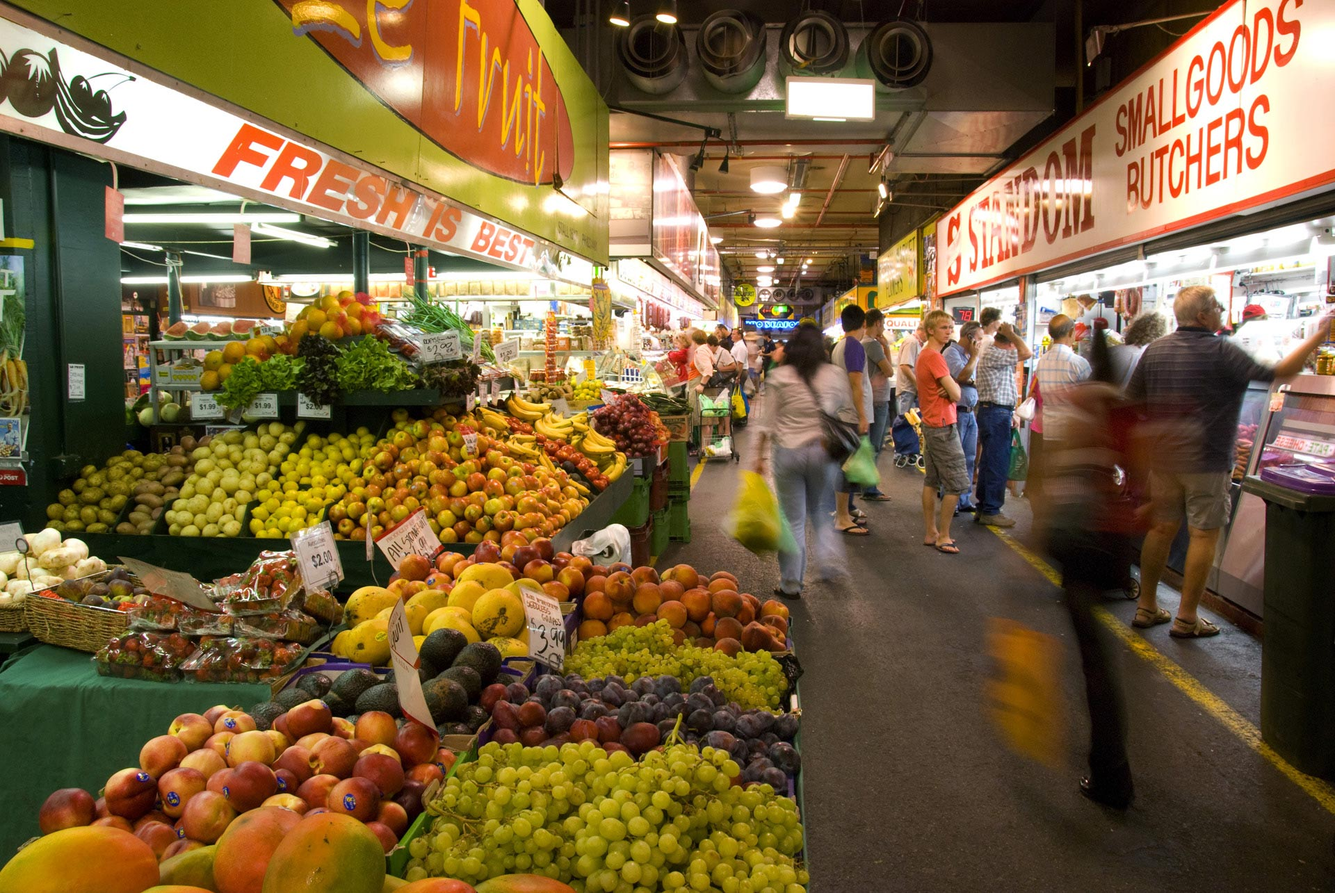
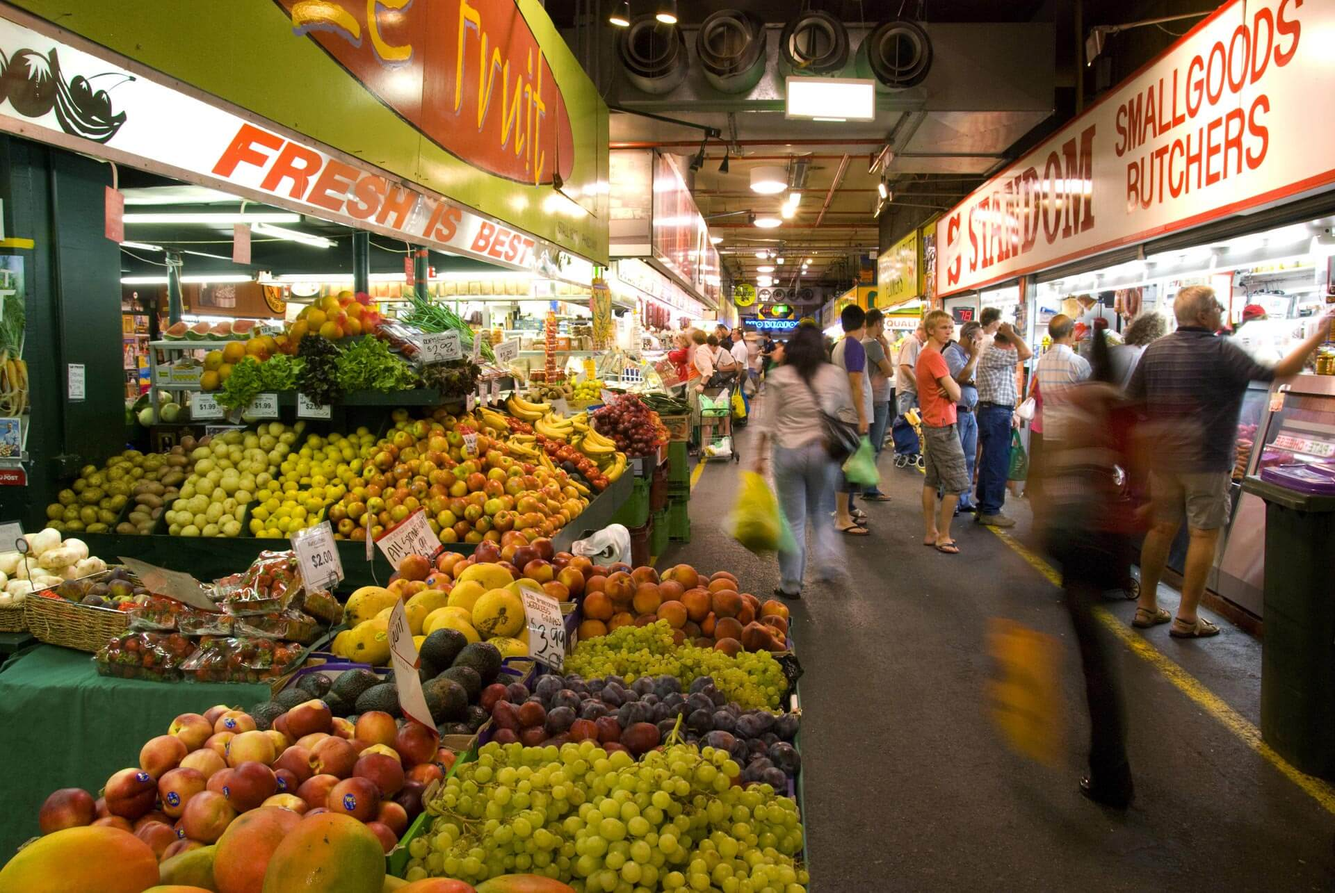
replace images with compressed versions

Changed region(s): [[0.5625, 0.3424, 0.5938, 0.3735]]

diff --git a/README.md b/README.md
@@ -2,10 +2,12 @@
 
 An eCommerce store for Viking thunder Gods that like to buy "Antique Wooden Pizzas".
 
+![welcome screenshot](public/welcome.jpg)
+
 Mimirs Market is an eCommerce store that lets users browse products by searching or category, view their shopping cart, view past orders, and view analytics of all orders. When you're ready to checkout, you can use [Stripe's API](https://stripe.com/docs/api) to make a fake purchase.
 
 Mimir's Market runs in Node.js, using Express.js for the server, Handlebars templates for the views, and Mongoose and Sequelize for interacting with MongoDB and Postgres databases respectively.
 
-To run this project locally, make sure you have both MongoDB and Postgres installed and running on your local machine.You'll also need two API keys from stripe, a secret one and a test one. Save them as STRIPE_PK and STRIPE_SK in your environment variables. You'll need to modify the configuration files in the Config folder to give the project access to your postgres database.
+To run this project locally, you'll need to have Node.js installed. You'll also need to make sure you have both MongoDB and Postgres installed and running on your local machine.You'll also need two API keys from stripe, a secret one and a test one. Save them as STRIPE_PK and STRIPE_SK in your environment variables. You'll need to modify the configuration files in the Config folder to give the project access to your postgres database.
 
-![my image](public/market.jpg)
+Once your setup is complete, run "npm install" in the directory's terminal to install dependencies, "npm run seed" to seed your databases, and finally "npm start" to start up the server. In your browser you can then navigate to "http://localhost:3000" and start shopping!
